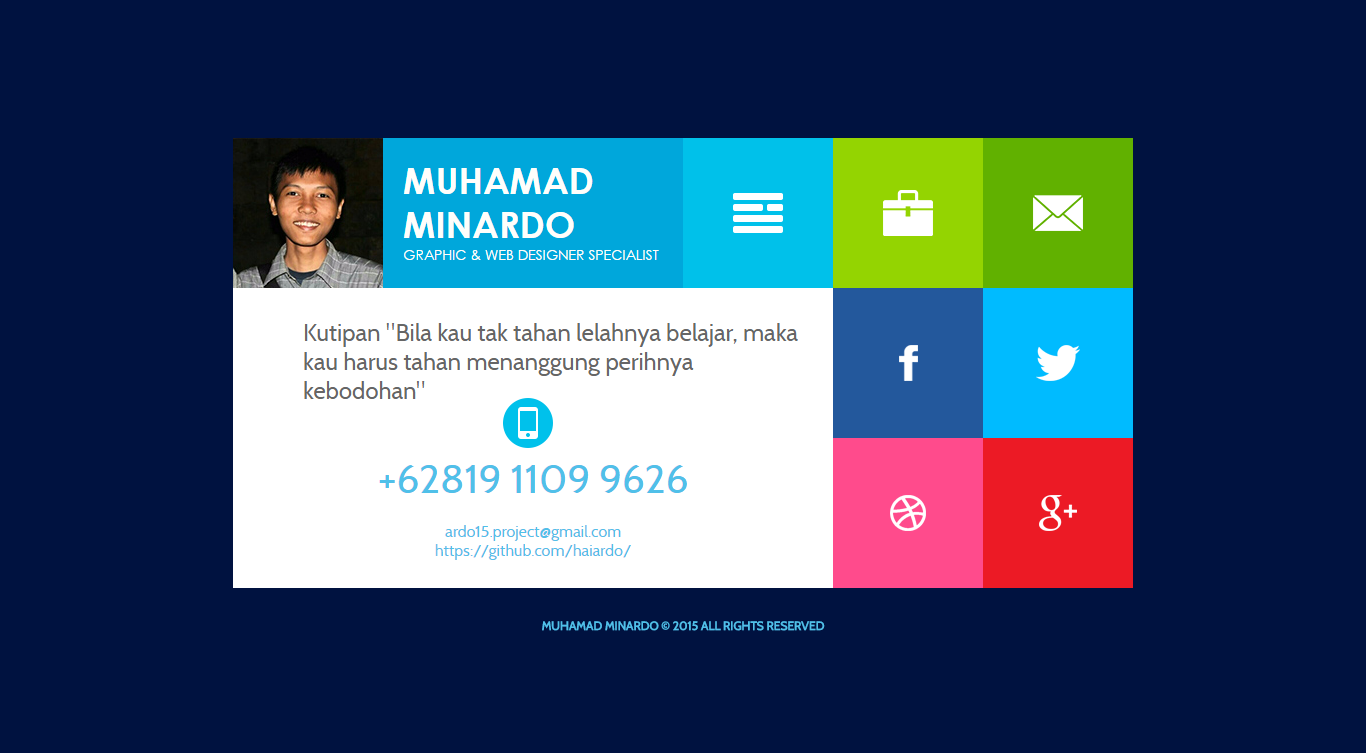
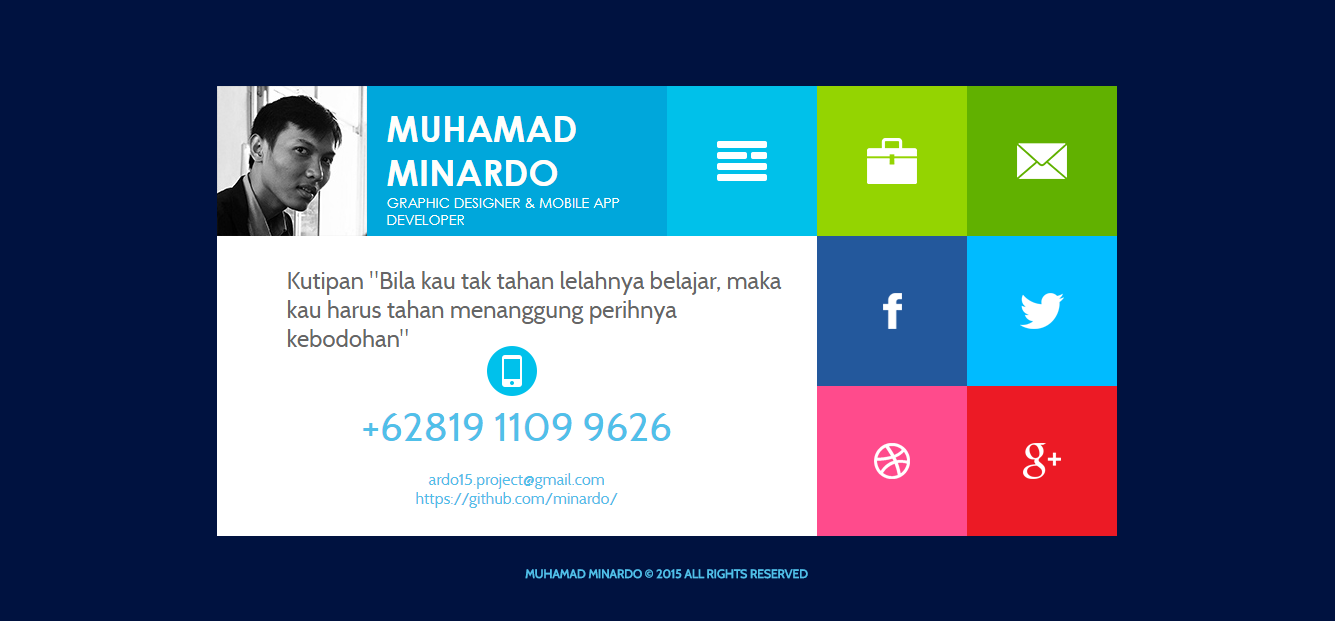
edit photo and profile

diff --git a/index.html b/index.html
@@ -11,7 +11,7 @@
 	<div id="wrapper">
 		<div id="menu">
 			<a class="tooltip" href="index.html"><div class="a"><span class="ardo">Hello Mr. Tahara Shita</span></div></a>
-			<a href="index.html"><div class="b">MUHAMAD MINARDO<br><div class="desc">GRAPHIC & WEB DESIGNER SPECIALIST</div></div></a>
+			<a href="index.html"><div class="b">MUHAMAD MINARDO<br><div class="desc">GRAPHIC DESIGNER & MOBILE APP DEVELOPER</div></div></a>
 			<a class="tooltip" href="profile.html"><div class="c"><span>Profile</span></div></a>
 			<a class="tooltip" href="https://www.facebook.com/muhamad.minardo"><div class="d"><span>Portfolio</span></div></a>
 			<a class="tooltip" href="https://www.facebook.com/muhamad.minardo"><div class="e"><span>Contacts</span></div></a>
@@ -22,7 +22,7 @@
 				<div class="information">Kutipan "Bila kau tak tahan lelahnya belajar, maka kau harus tahan menanggung perihnya kebodohan"</div>
 				<div class="phone"><img src="images/phone.png"></div>
 				<div class="number">+62819 1109 9626</div>
-				<div class="site"><br>ardo15.project@gmail.com<br>https://github.com/haiardo/</div>
+				<div class="site"><br>ardo15.project@gmail.com<br>https://github.com/minardo/</div>
 			</div>
 			<div id="social"></a>
 				<a class="tooltip" href="https://www.facebook.com/muhamad.minardo"><div class="f"><span>Facebook</span></div></a>

diff --git a/profile.html b/profile.html
@@ -12,7 +12,7 @@
 	<div id="wrapper">
 		<div id="menu">
 			<a class="tooltip" href="index.html"><div class="a"><span class="ardo">Hello Mr. Tahara Shita</span></div></a>
-			<a href="index.html"><div class="b">MUHAMAD MINARDO<br><div class="desc">GRAPHIC & WEB DESIGNER SPECIALIST</div></div></a>
+			<a href="index.html"><div class="b">MUHAMAD MINARDO<br><div class="desc">GRAPHIC DESIGNER & MOBILE APP DEVELOPER</div></div></a>
 			<a class="tooltip" href="profile.html"><div class="c"><span>Profile</span></div></a>
 			<a class="tooltip" href="https://www.facebook.com/muhamad.minardo"><div class="d"><span>Portfolio</span></div></a>
 			<a class="tooltip" href="https://www.facebook.com/muhamad.minardo"><div class="e"><span>Contacts</span></div></a>
@@ -30,9 +30,9 @@
 
 		Date of birth : 15.01.1996
 		Address 	 : Jakarta, Indonesia
-		Phone		 : 0899 8797 392
+		Phone		 : 0819 1109 9626
 		Email		 : ardo15.project@gmail.com
-		Website		 : http://www.seampu.net
+		Website		 : www.betaministudio.com
 					</pre>
 					</article>
 				</div>

diff --git a/css/style.css b/css/style.css
@@ -31,7 +31,7 @@ body {
 	width: 150px;
 	height: 150px;
 	float: left;
-	background: url("../images/photo.jpg") no-repeat center;
+	background: url("../images/ardo.jpg") no-repeat center;
 }
 
 .b {
